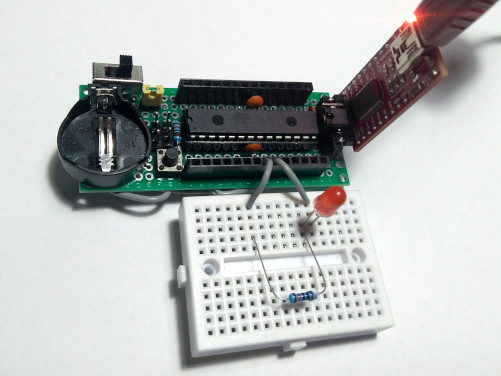
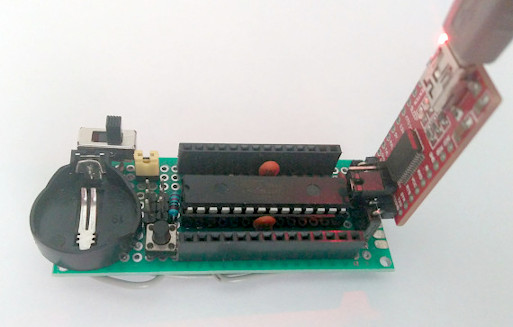
Major updates
- Include ATtiny85 in the project repo: source, Makefile, doc, pictures
- Update doc

diff --git a/ATmega328P/main.c b/ATmega328P/main.c
@@ -1,0 +1,55 @@
+
+/* ATmega328P operating in 8MHz (for _delay_ms()) */
+#define F_CPU 8000000UL
+
+#include <avr/interrupt.h>
+#include <avr/io.h>
+#include <avr/power.h>
+#include <avr/sleep.h>
+#include <util/delay.h>
+
+void _start()
+{
+    /* Clear interrupts */
+    cli();
+
+    /* Shut down ADC */
+    ADCSRA = 0x00; /* could also be: ADCSRA &= ~_BV(ADEN) */
+
+    /* Disable all unused peripherals for power saving */
+    power_all_disable();
+    /* In ATmega328P this must be equivalent to:
+       PRR = _BV(PRTWI)  | _BV(PRTIM2) | _BV(PRTIM0)   |
+             _BV(PRTIM1) | _BV(PRSPI)  | _BV(PRUSART0) | _BV(PRADC); */
+
+    /* Set up ports B, C and D as input low (except PORTB6 as output) */
+    DDRB = 0x40; /* 0b01000000 */
+    DDRC = 0x00;
+    DDRD = 0x00;
+
+    /* Enable internal pull-up on input pins
+       in order to not keep them floating */
+    PORTB = 0xBF; /* 0b10111111 */
+    PORTC = 0x7F; /* 0b01111111 */
+    PORTD = 0xFF; /* 0b11111111 */
+
+    /* Set 'power down' sleep mode */
+    set_sleep_mode(SLEEP_MODE_PWR_DOWN);
+    sleep_enable();
+
+    /* (Re)enable interrupts */
+    sei();
+
+    /* Blink LED on PORTB6 for 3 times */
+    for (int i = 0; i < 3; i++) {
+        PINB |= _BV(PINB6);
+        _delay_ms(500);
+        PINB |= _BV(PINB6);
+        _delay_ms(500);
+    }
+
+    /* Put ATmega328P CPU to sleep */
+    sleep_cpu();
+
+    while (1) {}
+}

diff --git a/ATtiny85/main.c b/ATtiny85/main.c
@@ -1,0 +1,50 @@
+
+/* ATtiny85 operating in 8MHz (for _delay_ms()) */
+#define F_CPU 8000000UL
+
+#include <avr/interrupt.h>
+#include <avr/io.h>
+#include <avr/power.h>
+#include <avr/sleep.h>
+#include <util/delay.h>
+
+void _start()
+{
+    /* Clear interrupts */
+    cli();
+
+    /* Shut down ADC */
+    ADCSRA = 0x00; /* could also be: ADCSRA &= ~_BV(ADEN); */
+
+    /* Disable all unused peripherals for power saving */
+    power_all_disable();
+    /* For ATtiny85 it must be equivalent to:
+       PRR = _BV(PRTIM1) | _BV(PRTIM0) | _BV(PRUSI) | _BV(PRADC); */
+
+    /* Set up all I/O pins as input except PORTB0 as output */
+    DDRB = _BV(DDB0);
+
+    /* Enable internal pull-up on input pins
+       in order to not keep them floating */
+    PORTB = 0x3E; /* 0b00111110 */
+
+    /* Set 'power down' sleep mode */
+    set_sleep_mode(SLEEP_MODE_PWR_DOWN);
+    sleep_enable();
+
+    /* (Re)enable interrupts */
+    sei();
+
+    /* Blink LED on PORTB0 for 3 times */
+    for (int i = 0; i < 3; i++) {
+        PINB |= _BV(PINB0);
+        _delay_ms(500);
+        PINB |= _BV(PINB0);
+        _delay_ms(500);
+    }
+
+    /* Put ATtiny85 CPU to sleep */
+    sleep_cpu();
+
+    while (1) {}
+}

diff --git a/README.md b/README.md
@@ -1,34 +1,39 @@
-# Simplest ATmega (megaAVR) project
+# Simplest ~~ATmega (megaAVR)~~ AVR projects
 
-This project aims to (at least it tries to) be the smallest and simplest one possible for the
+Those projects aim to (at least it tries to) be the smallest and simplest ones possible for the
 Microchip's (formerly Atmel) [ATmega328P](https://www.microchip.com/en-us/product/ATmega328P)
-microcontroller, but it can be for every other one such as the [ATtiny85](https://www.microchip.com/en-us/product/ATtiny85),
-both of them pretty popular among the hobbyist community.
+and [ATtiny85](https://www.microchip.com/en-us/product/ATtiny85) microcontrollers, both pretty
+popular among the hobbyist community. They can be freely used as a basis for bigger, more
+elaborated, projects.
 
-The project is intended to be run on a GNU/Linux environment; [see below](#environment).
+The projects are intended to be run on a GNU/Linux environment; [see below](#environment).
 
 ## Content
 
-The project comprises of:
+This repo is comprised of two projects, one for ATmega328P and the other for ATtiny85, each one in
+separated directories. Each project dir. contains:
 
  - A single C source file (`main.c`). What it does is just disable ADC and other units for power
-   saving, blink an LED connected at pin B6 for 5 times and then power the uC down.
+   saving, blink an LED connected at a pin for 3 times and then power the uC down.
+
  - A GNU makefile. Running `make` or `make all` will only compile the source and generate a `.hex`
    file; to burn down the `.hex` onto the microcontroller, `make install` must be issued.
 
 ## Environment
 
-The software used for compiling the code and write it onto the chip was:
+The softwares used for compiling the codes and write them onto the ICs were:
 
  - `avr-gcc` (GCC) 5.4.0
  - GNU `avr-objcopy` (GNU Binutils) 2.26.20160125
  - `avrdude` version 6.3-20171130
  - OS: Ubuntu 22.04.1 LTS x86-64 GNU/Linux
 
-## Target
+## Targets
 
-The target is a custom, homebrew board with an ATmega328P running by its internal clock source at
-8MHz. The following is a picture of the board used to test this project.
+### ATmega328P
+
+The first target is a custom, homebrew board with an ATmega328P running by its internal clock source
+at 8MHz. The following is a picture of the board used to test this project, connected to a LED.
 
 ![The homemade ATmega328P board](https://raw.githubusercontent.com/rddevitte/simplest-atmega-project/master/img/img1.jpg)
 
@@ -39,8 +44,21 @@ board being programmed.
 
 ![The chip being programmed by a FTDI module](https://raw.githubusercontent.com/rddevitte/simplest-atmega-project/master/img/img2.jpg)
 
+### ATtiny85
+
+The second target is an ATtiny85 running in a breadboard. It has no bootloader.
+
+To program the chip it was made a custom shield board to connect to an Arduino, which in its turn
+acts as an AVRISP programmer. Below is a picture of the ATtiny chip being programmed.
+
+![The chip connectd to a homemade shield being programmed by an Arduino](https://raw.githubusercontent.com/rddevitte/simplest-atmega-project/master/img/img3.jpg)
+
+The following shows the microcontroller already programmed and running in a breadboard sketch.
+
+![The chip running in a breadboard](https://raw.githubusercontent.com/rddevitte/simplest-atmega-project/master/img/img4.jpg)
+
 ## References / Credits
 
-This modest project was mostly inspired by [Mitch Davis' YT playlist on Fundamentals of Microcontrollers](https://www.youtube.com/playlist?list=PLNyfXcjhOAwOF-7S-ZoW2wuQ6Y-4hfjMR).
+Those projects were mostly inspired by [Mitch Davis' YT playlist on Fundamentals of Microcontrollers](https://www.youtube.com/playlist?list=PLNyfXcjhOAwOF-7S-ZoW2wuQ6Y-4hfjMR).
 
 The low power stuff was based off of [Nick Gammon's material on Power saving techniques for microprocessors](https://www.gammon.com.au/power).
